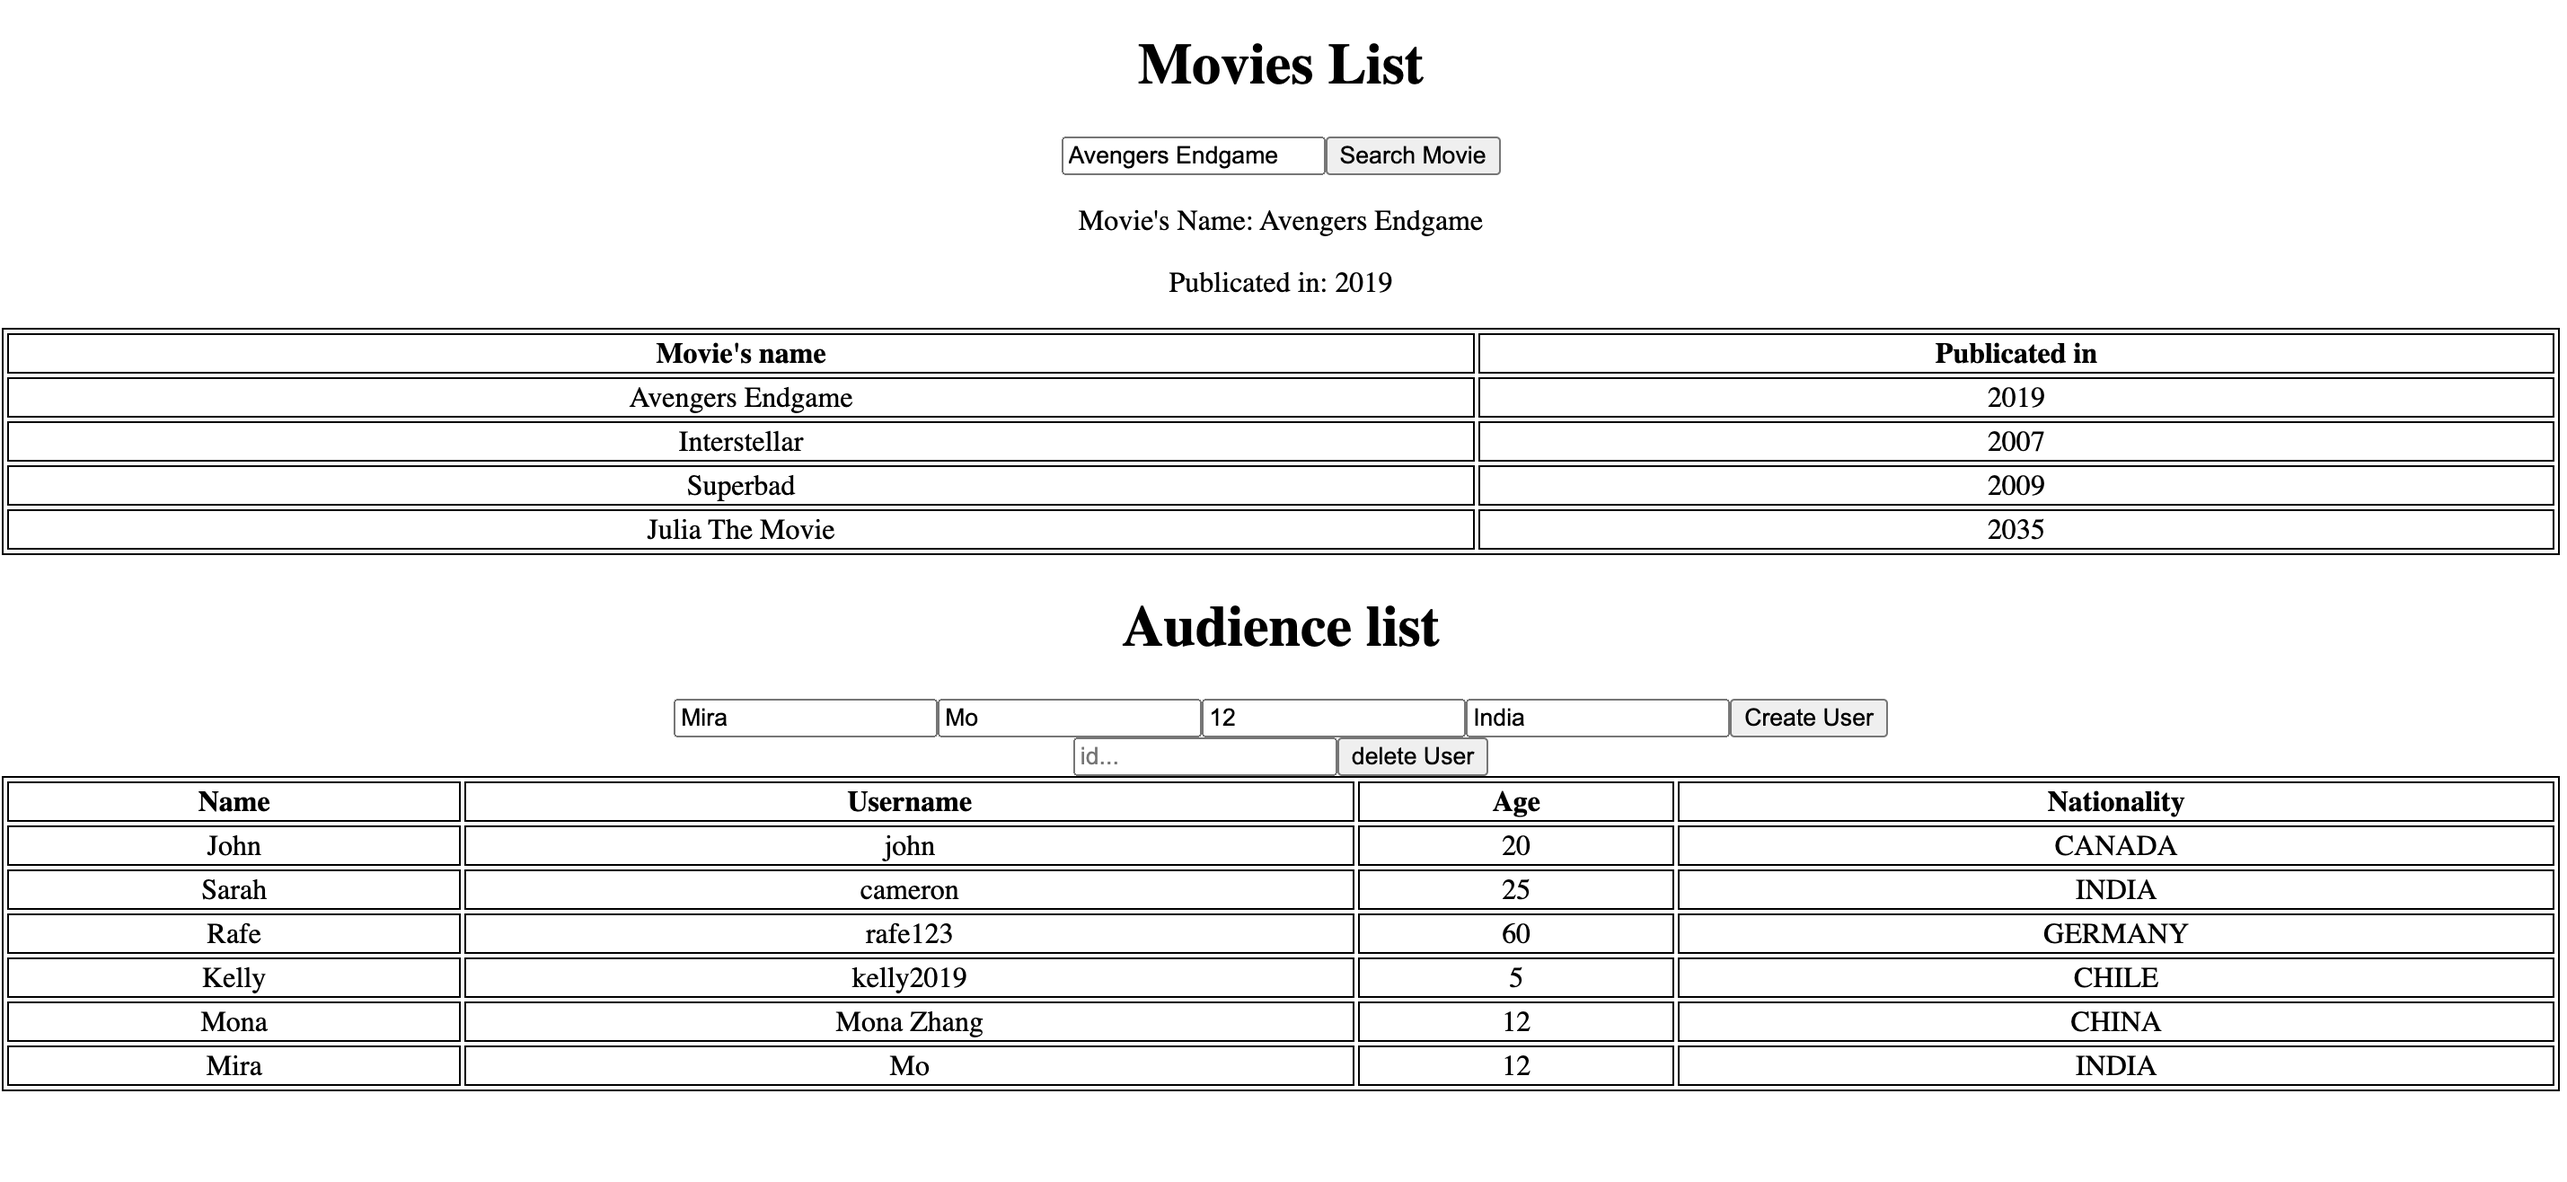
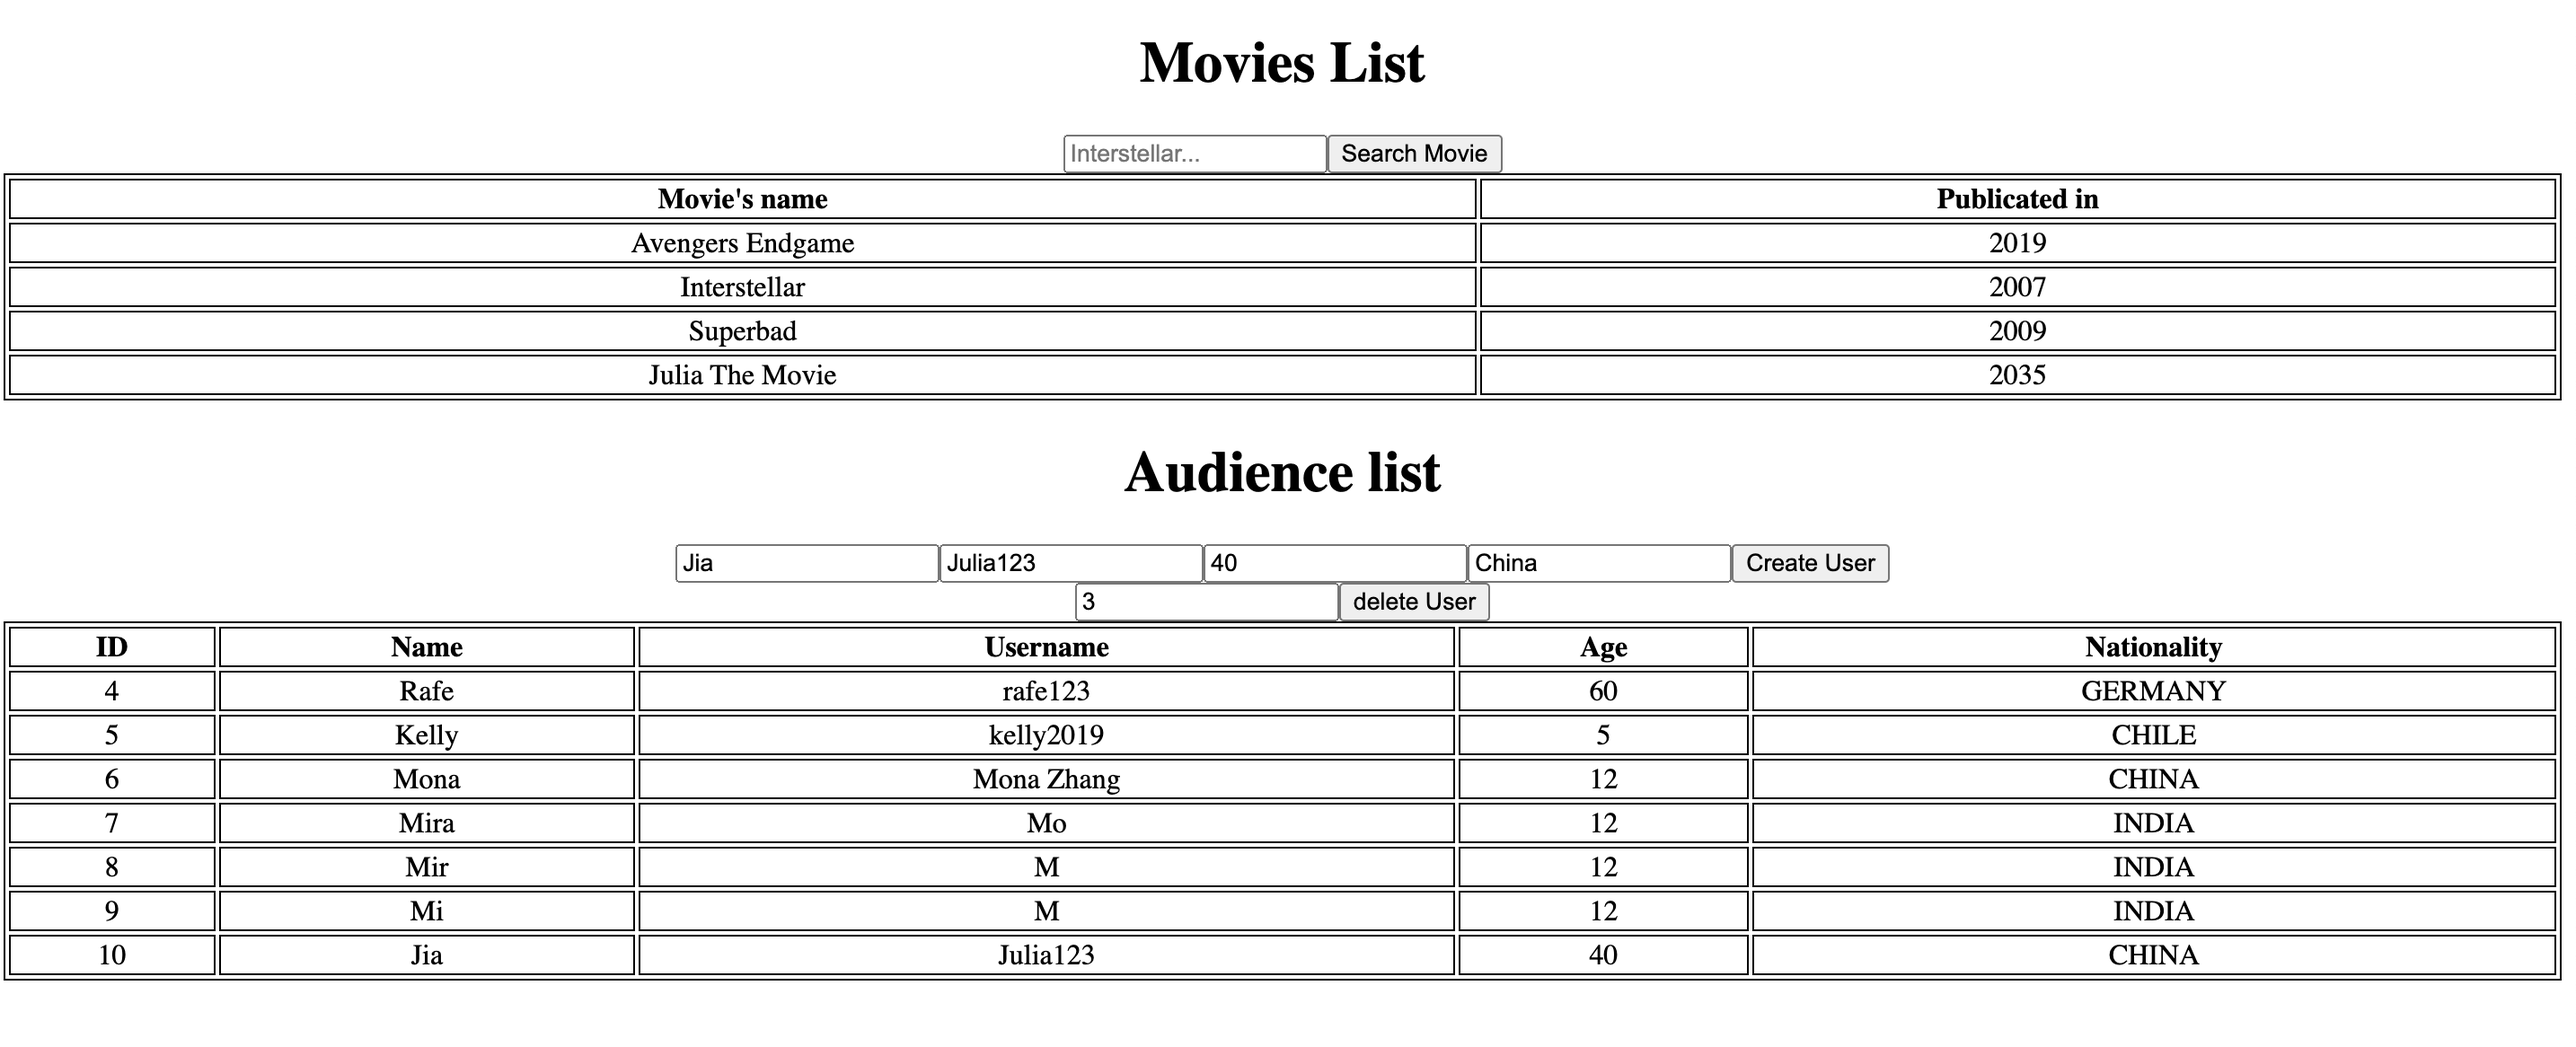
add ID in Audience list

diff --git a/client/src/DisplayData.js b/client/src/DisplayData.js
@@ -37,7 +37,7 @@ const CREATE_USER_MUTATION = gql`
     mutation CreateUser($input: CreateUserInput!) {
         createUser(input: $input) {
         name
-        id
+
         } 
     }
 `
@@ -147,6 +147,7 @@ function DisplayData() {
             <table style={{ width: '100%' }}>
                 <thead>
                     <tr>
+                        <th>ID</th>
                         <th>Name</th>
                         <th>Username</th>
                         <th>Age</th>
@@ -158,6 +159,7 @@ function DisplayData() {
                         data.users.map((user) => {
                             return (
                                 <tr key={user.id}>
+                                    <td>{user.id}</td>
                                     <td>{user.name}</td>
                                     <td>{user.username}</td>
                                     <td>{user.age}</td>
